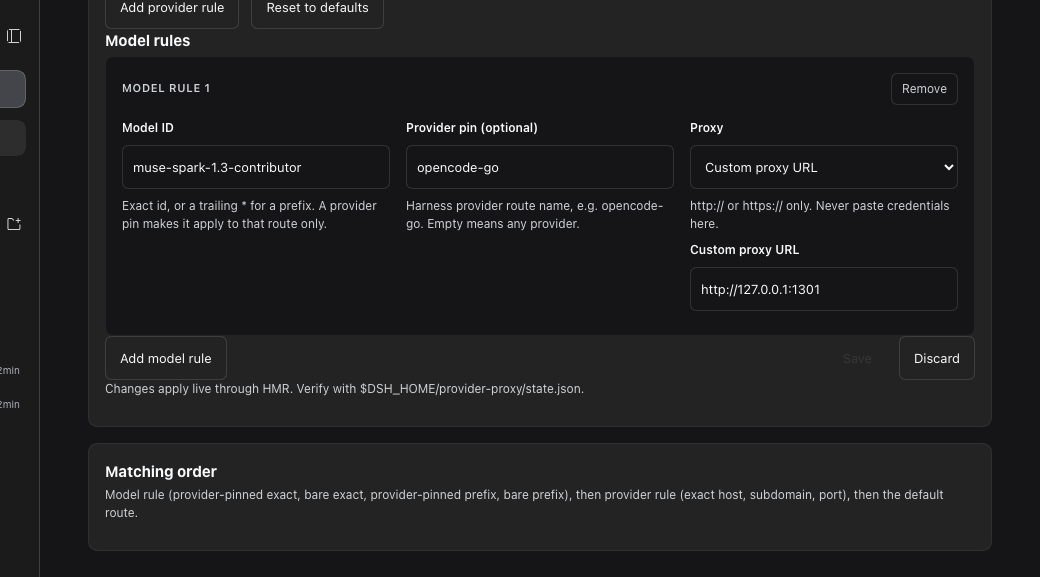
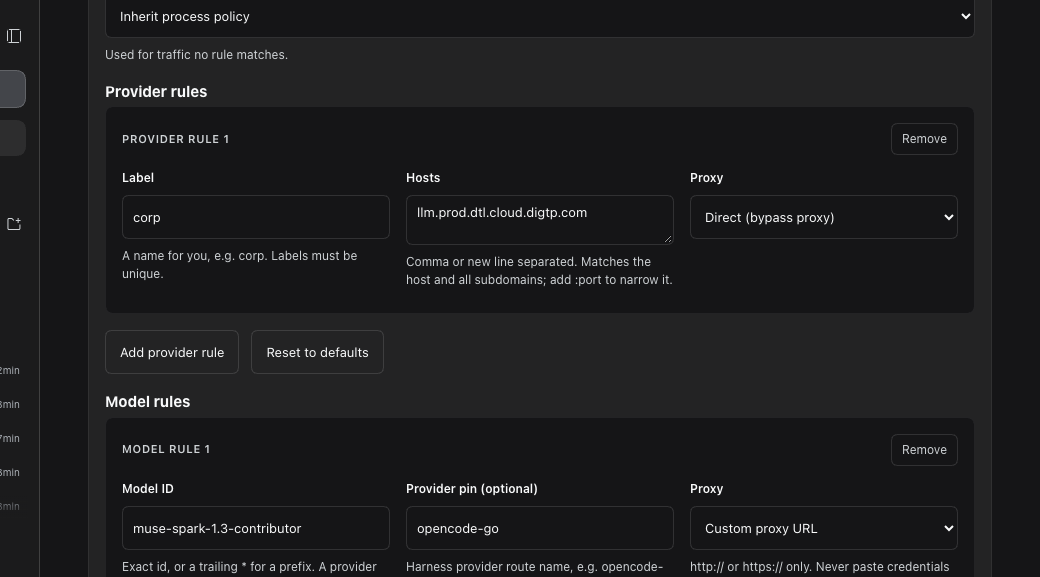
Add vertical spacing around the action row; refresh walkthrough assets (0.2.7)

diff --git a/client/client.theme.js b/client/client.theme.js
@@ -12,8 +12,8 @@ window.__ModuleLoader__.load({
       '.px-root{box-sizing:border-box;display:flex;flex-direction:column;gap:16px;font-size:13px;line-height:1.5;color:var(--dsw-alias-label-primary)}',
       '.px-root *{box-sizing:border-box}',
       '.px-card{border:1px solid var(--dsw-alias-border-l1);border-radius:12px;background:var(--dsw-alias-bg-layer-1);padding:16px}',
-      '.px-title{font-size:15px;margin:0 0 4px}',
-      '.px-sub{color:var(--dsw-alias-label-secondary);font-size:12px;line-height:1.5;margin:0 0 12px}',
+      '.px-title{font-size:15px;margin:16px 0 4px}.px-card>.px-title:first-child{margin-top:0}',
+      '.px-sub{color:var(--dsw-alias-label-secondary);font-size:12px;line-height:1.5;margin:0 0 12px}.px-card>.px-sub:last-child{margin:10px 0 0}',
       '.px-status{display:flex;flex-wrap:wrap;gap:8px;align-items:center;font-size:12px;color:var(--dsw-alias-label-secondary)}',
       '.px-pill{display:inline-block;border:1px solid var(--dsw-alias-border-l2);border-radius:999px;padding:2px 10px;font-size:12px}',
       '.px-error-summary{border:1px solid var(--dsw-alias-state-error-primary);border-radius:10px;padding:10px 12px;background:var(--dsw-alias-bg-layer-1)}',
@@ -21,7 +21,7 @@ window.__ModuleLoader__.load({
       '.px-error-summary ul{margin:0;padding-left:18px}',
       '.px-error-summary a{color:inherit}',
       '.px-badge{display:inline-block;border:1px solid var(--dsw-alias-border-l2);border-radius:999px;padding:1px 9px;font-size:11px;color:var(--dsw-alias-label-secondary)}',
-      '.px-rules{display:flex;flex-direction:column;gap:12px}',
+      '.px-rules{display:flex;flex-direction:column;gap:12px;margin-top:4px}',
       '.px-rule{border:1px solid var(--dsw-alias-border-l1);border-radius:10px;background:var(--dsw-alias-bg-base);padding:16px}',
       '.px-rule-head{display:flex;align-items:center;justify-content:space-between;gap:8px;margin:0 0 14px}',
       '.px-rule-name{font-size:11px;font-weight:600;letter-spacing:.06em;text-transform:uppercase;color:var(--dsw-alias-label-secondary)}',
@@ -37,7 +37,7 @@ window.__ModuleLoader__.load({
       '.px-textarea{padding:8px 10px;min-height:48px;resize:vertical}',
       '.px-input[aria-invalid="true"],.px-select[aria-invalid="true"],.px-textarea[aria-invalid="true"]{border-color:var(--dsw-alias-state-error-primary)}',
       '.px-ferr{font-size:11px;color:var(--dsw-alias-state-error-primary);margin:0}.px-ferr:not(:empty){min-height:16px}',
-      '.px-actions{display:flex;flex-wrap:wrap;gap:12px}',
+      '.px-actions{display:flex;flex-wrap:wrap;gap:12px;margin-top:16px}',
       '.px-btn{border:1px solid var(--dsw-alias-border-l2);background:transparent;color:var(--dsw-alias-label-primary);border-radius:8px;padding:0 14px;font-size:13px;min-height:44px;cursor:pointer}',
       '.px-btn:hover{background:var(--dsw-alias-bg-layer-1)}',
       '.px-btn:disabled{opacity:.5;cursor:default}',

diff --git a/CHANGELOG.md b/CHANGELOG.md
@@ -4,6 +4,14 @@ All notable changes to `dsh-provider-proxy` are documented here.
 The format follows [Keep a Changelog](https://keepachangelog.com/en/1.1.0/),
 and versions follow [Semantic Versioning](https://semver.org/).
 
+## [0.2.7] - 2026-10-24
+
+### Fixed
+- **Vertical spacing around the action row**: the Add/Save/Discard buttons sat flush against
+  the last rule card and the state note sat flush against the buttons. The action row now has
+  16 px above it, section titles get 16 px above them (except at the card top), and the note
+  gets 10 px below the buttons. Horizontal gaps and the right-aligned Save are unchanged.
+
 ## [0.2.6] - 2026-10-24
 
 ### Fixed
